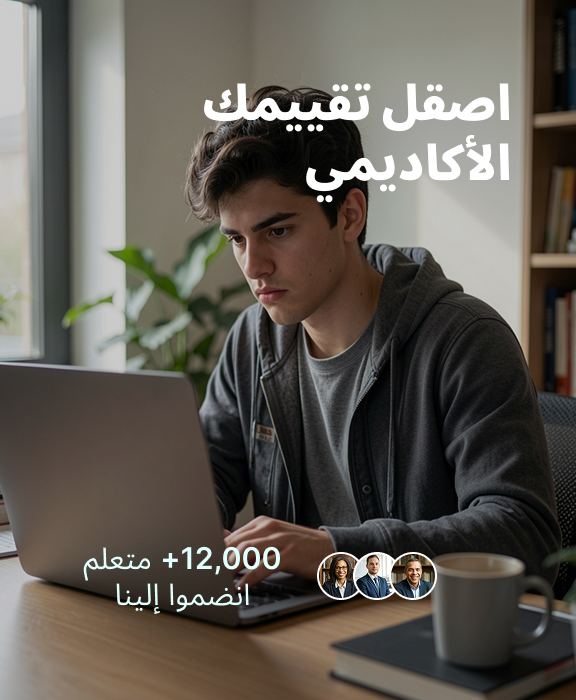
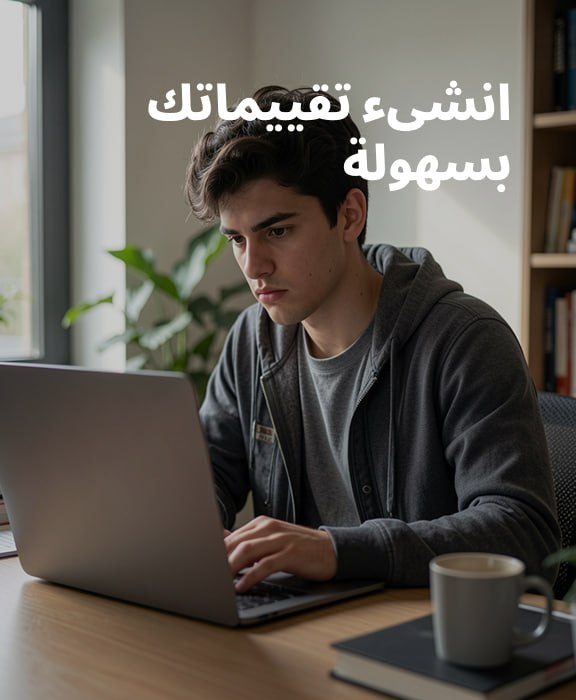
تعديلات معلم مستقل

Changed region(s): [[0.25, 0.12, 0.9062, 0.3], [0.125, 0.78, 0.5, 0.87], [0.5312, 0.78, 0.7812, 0.87]]

diff --git a/refactoring_exam_system/src/components/subjects/details/SubjectOverviewTab.jsx b/refactoring_exam_system/src/components/subjects/details/SubjectOverviewTab.jsx
@@ -1,11 +1,14 @@
 import { useTranslation } from 'react-i18next'
 import { FolderOpen } from 'lucide-react'
+import UserAvatar from '../../dashboard/UserAvatar'
 import {
   getQuestionBankName,
   getTeacherName,
   getTeacherSpecialty,
   sortByRecentDate,
 } from '../../../lib/subjectDisplay'
+import { isSoloTeacher } from '../../../lib/workspaceContext'
+import { getStudentMembershipId } from '../../../lib/workspaceStudents'
 import TeacherAvatar from './TeacherAvatar'
 import SubjectTopicsSection from './SubjectTopicsSection'
 import { SubjectRecentExamsPanel } from './SubjectExamsTab'
@@ -13,16 +16,25 @@ import { SubjectRecentExamsPanel } from './SubjectExamsTab'
 function SubjectOverviewTab({
   subject,
   teachers,
+  students = [],
   questionBanks,
   topics,
   exams = [],
   examsLoading = false,
   examsError = '',
   onViewAllTeachers,
+  onViewAllStudents,
   onRefreshTopics,
 }) {
   const { t } = useTranslation(['subjects', 'common'])
+  const showRecentStudents = isSoloTeacher()
   const recentTeachers = sortByRecentDate(teachers).slice(0, 2)
+  const recentStudents = sortByRecentDate(students, [
+    'enrolled_at',
+    'assigned_at',
+    'created_at',
+    'updated_at',
+  ]).slice(0, 2)
   const recentBanks = sortByRecentDate(questionBanks).slice(0, 3)
   const recentExams = exams.slice(0, 5)
 
@@ -44,8 +56,22 @@ function SubjectOverviewTab({
 
         <section className="rounded-2xl bg-white p-6 shadow-[0_2px_12px_rgba(15,23,42,0.04)] ring-1 ring-[#E5E9EB]">
           <div className="mb-5 flex items-center justify-between gap-3">
-            <h2 className="text-lg font-bold text-[#2A3433]">{t('details.overview.recentTeachers')}</h2>
-            {teachers.length > 0 ? (
+            <h2 className="text-lg font-bold text-[#2A3433]">
+              {showRecentStudents
+                ? t('details.overview.recentStudents')
+                : t('details.overview.recentTeachers')}
+            </h2>
+            {showRecentStudents ? (
+              students.length > 0 ? (
+                <button
+                  type="button"
+                  onClick={onViewAllStudents}
+                  className="text-sm font-bold text-[#2AA8A2] transition hover:opacity-80"
+                >
+                  {t('actions.viewAll', { ns: 'common' })}
+                </button>
+              ) : null
+            ) : teachers.length > 0 ? (
               <button
                 type="button"
                 onClick={onViewAllTeachers}
@@ -56,7 +82,37 @@ function SubjectOverviewTab({
             ) : null}
           </div>
 
-          {recentTeachers.length === 0 ? (
+          {showRecentStudents ? (
+            recentStudents.length === 0 ? (
+              <p className="text-sm text-[#94A3B8]">{t('details.students.empty')}</p>
+            ) : (
+              <div className="grid gap-4 sm:grid-cols-2">
+                {recentStudents.map((student) => {
+                  const membershipId = getStudentMembershipId(student)
+                  const fullName = student.full_name || student.name || '—'
+
+                  return (
+                    <div
+                      key={membershipId ?? student.assignment_id ?? student.user_id}
+                      className="flex items-center gap-3 rounded-2xl bg-[#F8FAFB] px-4 py-4 ring-1 ring-[#EEF2F3]"
+                    >
+                      <UserAvatar
+                        user={{ full_name: fullName, avatar_url: student.avatar_url }}
+                        size="md"
+                        rounded
+                      />
+                      <div className="min-w-0">
+                        <p className="truncate font-bold text-[#2A3433]">{fullName}</p>
+                        <p className="mt-1 truncate text-xs text-[#94A3B8]">
+                          {student.email || student.phone_number || student.phone || '—'}
+                        </p>
+                      </div>
+                    </div>
+                  )
+                })}
+              </div>
+            )
+          ) : recentTeachers.length === 0 ? (
             <p className="text-sm text-[#94A3B8]">{t('details.overview.noTeachers')}</p>
           ) : (
             <div className="grid gap-4 sm:grid-cols-2">

diff --git a/refactoring_exam_system/src/components/subjects/details/SubjectDetailsTabs.jsx b/refactoring_exam_system/src/components/subjects/details/SubjectDetailsTabs.jsx
@@ -1,14 +1,16 @@
 import { useTranslation } from 'react-i18next'
+import { isSoloTeacher } from '../../../lib/workspaceContext'
 
 const TAB_IDS = ['overview', 'teachers', 'students', 'banks', 'exams']
 
 function SubjectDetailsTabs({ activeTab, onChange }) {
   const { t } = useTranslation('subjects')
+  const visibleTabs = isSoloTeacher() ? TAB_IDS.filter((tabId) => tabId !== 'teachers') : TAB_IDS
 
   return (
     <div className="border-b border-[#E5E9EB]">
       <div className="flex gap-10 overflow-x-auto">
-        {TAB_IDS.map((tabId) => (
+        {visibleTabs.map((tabId) => (
           <button
             key={tabId}
             type="button"

diff --git a/refactoring_exam_system/src/components/auth/AuthShell.jsx b/refactoring_exam_system/src/components/auth/AuthShell.jsx
@@ -13,6 +13,7 @@ function AuthShell({
   heroImagePosition = 'center',
   contentAlign = 'center',
   showHeroHeadline = true,
+  showHeroUsersBadge = true,
 }) {
   const { t } = useTranslation(['auth', 'common'])
   const language = useLanguageStore((s) => s.language)
@@ -57,6 +58,7 @@ function AuthShell({
               headline={heroHeadline || heroAlt || undefined}
               imagePosition={heroImagePosition}
               showHeadline={showHeroHeadline}
+              showUsersBadge={showHeroUsersBadge}
             />
           </div>
         </div>

diff --git a/refactoring_exam_system/src/pages/subjects/SubjectDetailsPage.jsx b/refactoring_exam_system/src/pages/subjects/SubjectDetailsPage.jsx
@@ -102,12 +102,14 @@ function SubjectDetailsPage() {
         <SubjectOverviewTab
           subject={subject}
           teachers={teachers}
+          students={students}
           questionBanks={questionBanks}
           topics={topics}
           exams={tests}
           examsLoading={testsLoading}
           examsError={testsError}
           onViewAllTeachers={() => setActiveTab('teachers')}
+          onViewAllStudents={() => setActiveTab('students')}
           onRefreshTopics={refetch}
         />
       ) : null}

diff --git a/refactoring_exam_system/src/pages/PathSelectionPage.jsx b/refactoring_exam_system/src/pages/PathSelectionPage.jsx
@@ -83,6 +83,8 @@ function PathSelectionPage() {
       heroImage={pathSelectionHero}
       heroAlt={t('pathSelection.heroAlt')}
       heroImagePosition="right center"
+      showHeroHeadline={false}
+      showHeroUsersBadge={false}
     >
       <h1 className="text-right text-3xl font-extrabold text-[#2A3433] md:text-4xl">
         {t('pathSelection.title')}

diff --git a/refactoring_exam_system/src/pages/LoginPage.jsx b/refactoring_exam_system/src/pages/LoginPage.jsx
@@ -210,6 +210,7 @@ function LoginPage() {
               image={loginHero}
               alt={t('login.heroAlt')}
               showHeadline={false}
+              showUsersBadge={false}
             />
           </div>
         </div>
